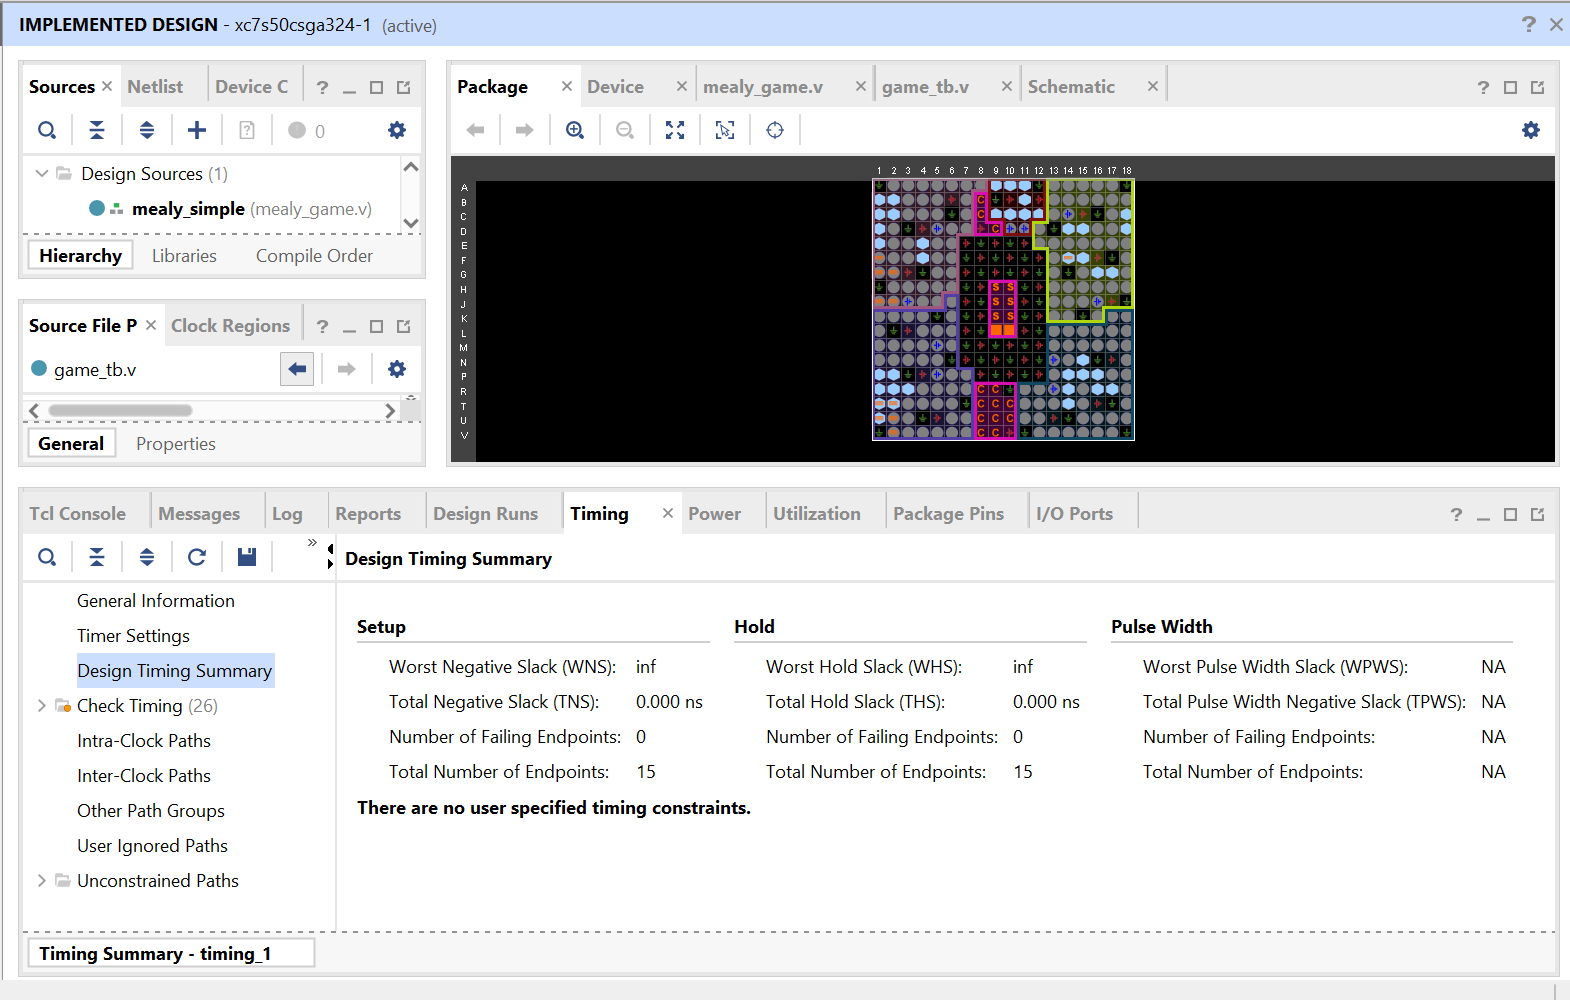
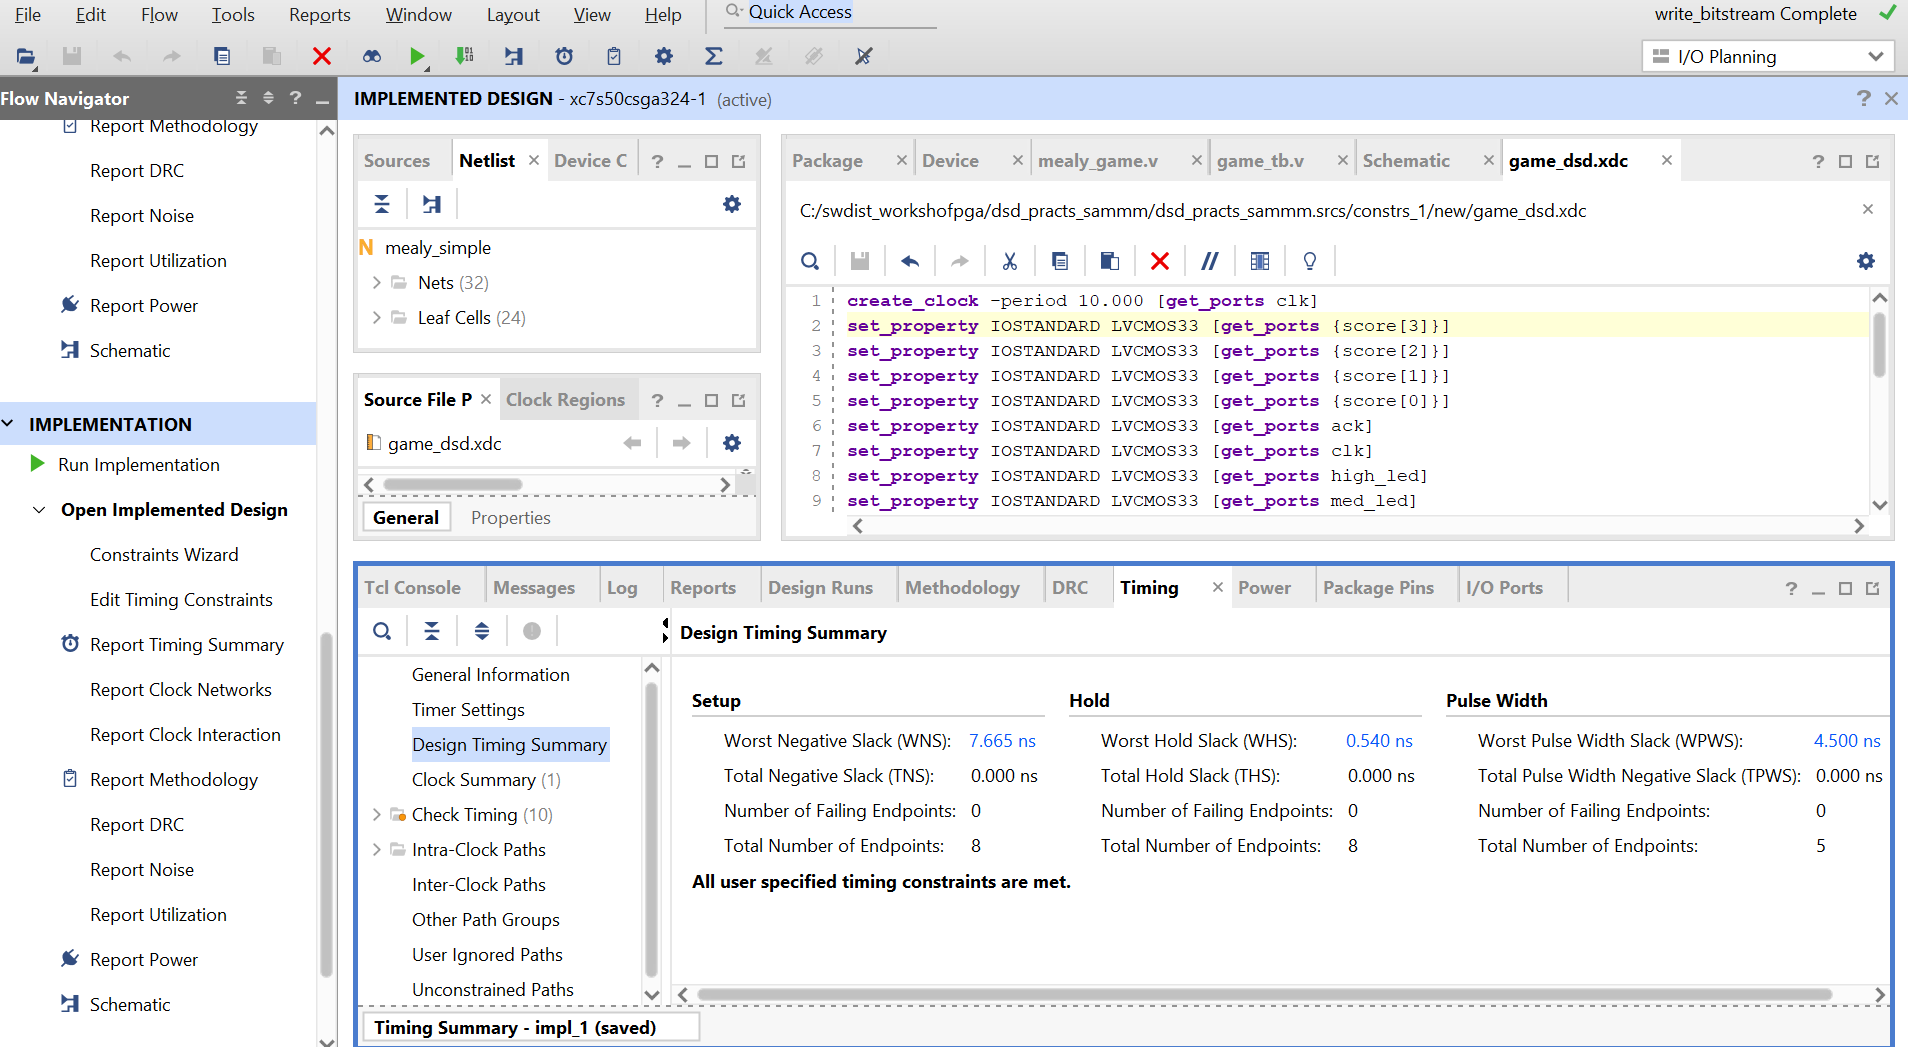
Add constrained timing result (timing met) and update docs and presentation

diff --git a/Group_Submissions/day1_submission_grp14/README.md b/Group_Submissions/day1_submission_grp14/README.md
@@ -109,7 +109,7 @@ Waveform/log path: `03_Verilog_Implementation/Simulation_Results/behavioral_simu
 - FPGA board/device: Xilinx Spartan-7 XC7S50-CSGA324-1 (part `xc7s50csga324-1`)
 - Tool/version: Xilinx Vivado 2018.3 (project `dsd_practs_sammm`)
 - Clock/constraints: `04_FPGA_Hardware/constraints.xdc` (LVCMOS33; clk F14, reset T1, start J2, ack J1, score V2/U2/U1/T2, LEDs G1/G2/F1). Clock constraint added: `create_clock -period 10.000 [get_ports clk]` (10 ns, 100 MHz); see `constraints_with_clock.png`.
-- Synthesis/implementation summary: Synthesis, implementation and bitstream generation completed for `xc7s50csga324-1` (Vivado status bar: "write_bitstream Complete"). Implemented design: 24 cells, 11 I/O ports, 32 nets. Vivado re-encoded the FSM as one-hot (`FSM_onehot_state_reg`, 4 flip-flops) with LUTs and I/O buffers. Pin assignments match `constraints.xdc` (score T2/U1/U2/V2, ack J1, clk F14, high_led F1; LVCMOS33, outputs 12 mA slow slew). Utilisation (Vivado, post-implementation): 6 Slice LUTs of 32600, 4 slice registers of 65200, 2 slices of 8150, 11 bonded IOBs of 210, 1 BUFGCTRL of 32 (LUTs, registers and slices under 1%; IOBs about 5%; BUFGCTRL about 3%). Power (Vivado estimate, default activity): total 3.43 W = 3.348 W dynamic (I/O 3.229 W, signals 0.077 W, logic 0.043 W) + 0.082 W static; junction temperature 41.9 °C, thermal margin 43.1 °C. Timing summary: the design is unconstrained ("no user specified timing constraints"; WNS and WHS show inf, 15 endpoints, 0 failing), so no clock-frequency timing was verified. After adding the clock constraint, implementation was re-run and the bitstream regenerated (Vivado: "Bitstream Generation successfully completed", `bitstream_generation_completed.png`). The timing summary visible in that screenshot is still the old report (Vivado shows the implemented design as out-of-date); a refreshed timing report is pending.
+- Synthesis/implementation summary: Synthesis, implementation and bitstream generation completed for `xc7s50csga324-1` (Vivado status bar: "write_bitstream Complete"). Implemented design: 24 cells, 11 I/O ports, 32 nets. Vivado re-encoded the FSM as one-hot (`FSM_onehot_state_reg`, 4 flip-flops) with LUTs and I/O buffers. Pin assignments match `constraints.xdc` (score T2/U1/U2/V2, ack J1, clk F14, high_led F1; LVCMOS33, outputs 12 mA slow slew). Utilisation (Vivado, post-implementation): 6 Slice LUTs of 32600, 4 slice registers of 65200, 2 slices of 8150, 11 bonded IOBs of 210, 1 BUFGCTRL of 32 (LUTs, registers and slices under 1%; IOBs about 5%; BUFGCTRL about 3%). Power (Vivado estimate, default activity): total 3.43 W = 3.348 W dynamic (I/O 3.229 W, signals 0.077 W, logic 0.043 W) + 0.082 W static; junction temperature 41.9 °C, thermal margin 43.1 °C. Timing (after adding `create_clock -period 10.000`): WNS = 7.665 ns, WHS = 0.540 ns, WPWS = 4.500 ns, 0 failing endpoints, "All user specified timing constraints are met" (`timing_summary.png`; the first run, before the clock constraint, showed inf slack).
 - Programming and hardware test result: [not yet done]
 - Evidence path: `04_FPGA_Hardware/`
 
@@ -130,7 +130,7 @@ Explain differences between simulation and hardware results, if any.
 ## 10. Challenges, Debugging and Improvements
 | Issue | Root cause | Correction | Outcome |
 |---|---|---|---|
-| Design was unconstrained: Timing Summary showed WNS/WHS = inf and "no user specified timing constraints" | The constraints file had only pin and I/O-standard lines, with no clock definition | Added `create_clock -period 10.000 [get_ports clk]` to the constraints, re-ran implementation and regenerated the bitstream | Bitstream regenerated successfully; refreshed timing report to be confirmed |
+| Design was unconstrained: Timing Summary showed WNS/WHS = inf and "no user specified timing constraints" | The constraints file had only pin and I/O-standard lines, with no clock definition | Added `create_clock -period 10.000 [get_ports clk]` to the constraints, re-ran implementation and regenerated the bitstream | Timing met at 10 ns (WNS 7.665 ns, WHS 0.540 ns, 0 failing endpoints); bitstream regenerated |
 
 Future improvements: debouncing/synchronising `start` and `ack`; seven-segment display of the score; parameterised thresholds.
 
@@ -152,13 +152,13 @@ Summarise requirements met, correctness of simulation/hardware results, measured
 
 **Requirements met:** the Mealy FSM classifies the score into LOW (0–4), MEDIUM (5–10) and HIGH (11–15), lights exactly one LED, holds it until ACK and clears it afterwards. Verified in Vivado behavioral simulation for scores 2, 7 and 13 (3 of 3 cases pass, from the waveform). Full tables: [`05_Results/README.md`](05_Results/README.md).
 
-**Measured results (Vivado 2018.3, XC7S50-CSGA324-1):** 6 Slice LUTs, 4 flip-flops, 2 slices, 11 IOBs, 1 BUFGCTRL; estimated power 3.43 W (mostly I/O); bitstream generated.
+**Measured results (Vivado 2018.3, XC7S50-CSGA324-1):** 6 Slice LUTs, 4 flip-flops, 2 slices, 11 IOBs, 1 BUFGCTRL; estimated power 3.43 W (mostly I/O); timing met at a 10 ns clock (WNS 7.665 ns, WHS 0.540 ns, 0 failing endpoints); bitstream generated.
 
 **Hardware results:** pending (board demonstration not yet done).
 
-**Limitations:** only three scores simulated (boundary scores and reset mid-round untested); clock timing not yet verified because the first timing run had no clock constraint; START and ACK are not debounced.
+**Limitations:** only three scores simulated (boundary scores and reset mid-round untested); timing was checked only at a 10 ns clock constraint; START and ACK are not debounced.
 
-**Conclusion:** the design meets the functional behaviour in simulation and fits easily on the target FPGA. The hardware demonstration and a constrained timing run remain.
+**Conclusion:** the design meets the functional behaviour in simulation and fits easily on the target FPGA. The hardware demonstration remains.
 
 ## 14. Team Reflection
 What did the team learn? What would you improve?

diff --git a/Group_Submissions/day1_submission_grp14/STATUS.md b/Group_Submissions/day1_submission_grp14/STATUS.md
@@ -15,7 +15,7 @@
 | Member 3 | Deven Shailendra Bhadane — D9B Roll No. 2 |
 | Member 4 | Ojas Nitin Kadam — D9B Roll No. 20 |
 | Repository | https://github.com/planetsamzz77/DSD-2026-D9A-Group14 |
-| Last Updated | 2026-11-20, 04:00 |
+| Last Updated | 2026-11-20, 04:30 |
 
 ## 2. Problem Statement
 
@@ -75,7 +75,7 @@ Status values: **Not Started**, **In Progress**, **Completed**, or **Needs Corre
 | 2 — Verilog | Create testbench and run functional simulation | Completed | `03_Verilog_Implementation/Testbench/game_tb.v`; waveform in `Simulation_Results/` |
 | 2 — Verilog | Save waveforms and simulation results | In Progress | `03_Verilog_Implementation/Simulation_Results/behavioral_simulation_waveform.png` (console log pending) |
 | 3 — FPGA | Assign FPGA pins and configure constraints | Completed | `04_FPGA_Hardware/constraints.xdc` |
-| 3 — FPGA | Synthesize, implement, and generate bitstream | Completed | `04_FPGA_Hardware/implemented_design.png`, `04_FPGA_Hardware/utilization_report.png` (timing summary uploaded but design is unconstrained: no create_clock yet) |
+| 3 — FPGA | Synthesize, implement, and generate bitstream | Completed | `04_FPGA_Hardware/implemented_design.png`, `04_FPGA_Hardware/utilization_report.png` (timing met with a 10 ns clock constraint) |
 | 3 — FPGA | Demonstrate the design on FPGA hardware | Not Started | `04_FPGA_Hardware/` |
 | 3 — Results | Record observations and verify expected behaviour | In Progress | `05_Results/README.md` (simulation results recorded; hardware results pending) |
 | 3 — Presentation | Prepare slides (title + 4 content slides per guidelines) and demonstration | In Progress | `06_Presentation/Group14_DSD_Presentation.pptx` (draft; hardware demo and real challenges still to fill) |
@@ -128,6 +128,7 @@ Record work completed by the group. Add a new row for every meaningful update.
 | 2026-11-20, 03:00 | Assigned statement 3H2 (hint H2, Mealy FSM) transcribed into the problem analysis with a requirement mapping; photo of the handout added | Samruddhi Samant | Commit link to be added |
 | 2026-11-20, 03:30 | Clock constraint (create_clock 10 ns) added to constraints; bitstream regenerated; screenshots `constraints_with_clock.png` and `bitstream_generation_completed.png` added; refreshed timing report still pending | Samruddhi Samant | Commit link to be added |
 | 2026-11-20, 04:00 | Logisim simulation screenshot added (`02_FSM_Logisim/sim_score13_high.png`, SCORE = 13 gives HIGH LED); other scores, ACK and RESET pending | Samruddhi Samant | Commit link to be added |
+| 2026-11-20, 04:30 | Constrained timing run: WNS 7.665 ns, WHS 0.540 ns, 0 failing endpoints, all constraints met; `timing_summary.png` replaced | Samruddhi Samant | Commit link to be added |
 
 ## 8. Individual Contributions
 

diff --git a/Group_Submissions/day1_submission_grp14/05_Results/README.md b/Group_Submissions/day1_submission_grp14/05_Results/README.md
@@ -46,18 +46,18 @@ Hardware demonstration is pending. Fill this table from the board, and add photo
 | Bonded IOBs | 11 of 210 | `utilization_report.png` |
 | BUFGCTRL | 1 of 32 | `utilization_report.png` |
 | Estimated power | 3.43 W total (3.348 W dynamic, mostly I/O; 0.082 W static); junction 41.9 °C | `04_FPGA_Hardware/power_report.png` |
-| Timing | Not yet confirmed: the first run was unconstrained (WNS/WHS = inf). A 10 ns clock constraint was then added and the bitstream regenerated, but the timing summary captured afterwards is still the old report | `04_FPGA_Hardware/timing_summary.png`, `constraints_with_clock.png`, `bitstream_generation_completed.png` |
+| Timing (10 ns clock, `create_clock -period 10.000`) | Met: WNS 7.665 ns, WHS 0.540 ns, WPWS 4.500 ns; 0 failing endpoints; "All user specified timing constraints are met". The first run, before the constraint, showed inf slack | `04_FPGA_Hardware/timing_summary.png`, `constraints_with_clock.png` |
 
-The timing row will be updated once Vivado is reloaded and Report Timing Summary is re-run on the constrained design.
+Timing was first reported as unconstrained (inf); after adding the clock constraint, the constrained run above meets timing.
 
 ## 4. Limitations
 
 - Simulation covers only three scores; boundary scores and reset mid-round are not tested.
 - Hardware demonstration is pending.
-- No verified clock-frequency timing yet.
+- Timing is verified only at a 10 ns (100 MHz) clock constraint; the board clock frequency should be confirmed.
 - START and ACK are not debounced or synchronised, so a bouncing button could misfire on hardware.
 - The score is not displayed; only the category LED is shown.
 
 ## 5. Conclusion
 
-The Mealy FSM for problem 3H2 behaves as specified for the three simulated scores: it lights the LOW, MEDIUM or HIGH LED and clears it on ACK. It implements on the XC7S50 with 6 LUTs and 4 flip-flops, and a bitstream was generated. Remaining work: boundary and reset tests in simulation, the hardware demonstration, and a constrained timing run.
+The Mealy FSM for problem 3H2 behaves as specified for the three simulated scores: it lights the LOW, MEDIUM or HIGH LED and clears it on ACK. It implements on the XC7S50 with 6 LUTs and 4 flip-flops, and a bitstream was generated. Remaining work: boundary and reset tests in simulation, the hardware demonstration, .

diff --git a/Group_Submissions/day1_submission_grp14/04_FPGA_Hardware/README.md b/Group_Submissions/day1_submission_grp14/04_FPGA_Hardware/README.md
@@ -6,8 +6,8 @@
 | `implemented_design.png` | Vivado 2018.3: implemented design (24 cells, 11 I/O ports, 32 nets) with placed schematic and I/O Ports view |
 | `utilization_report.png` | Vivado 2018.3 utilization report (hierarchy view): 6 LUTs, 4 registers, 2 slices, 11 bonded IOBs, 1 BUFGCTRL |
 | `power_report.png` | Vivado 2018.3 power report (estimate): 3.43 W total, 41.9 °C junction temperature |
-| `timing_summary.png` | Vivado 2018.3 Design Timing Summary: no user timing constraints (WNS/WHS = inf, 15 endpoints) |
+| `timing_summary.png` | Vivado 2018.3 Design Timing Summary after the clock constraint: WNS 7.665 ns, WHS 0.540 ns, 0 failing endpoints, all user specified timing constraints met |
 | `constraints_with_clock.png` | Vivado 2018.3: constraints file `game_dsd.xdc` with `create_clock -period 10.000 [get_ports clk]` on line 1 |
 | `bitstream_generation_completed.png` | Vivado 2018.3: "Bitstream Generation successfully completed" after the clock constraint was added |
 
-**Still to add:** a refreshed timing summary (reload the implemented design, then Report Timing Summary), the generated `.bit` file (if allowed), and hardware demonstration photos/video with expected vs observed results.
+**Still to add:** the generated `.bit` file (if allowed), and hardware demonstration photos/video with expected vs observed results.
